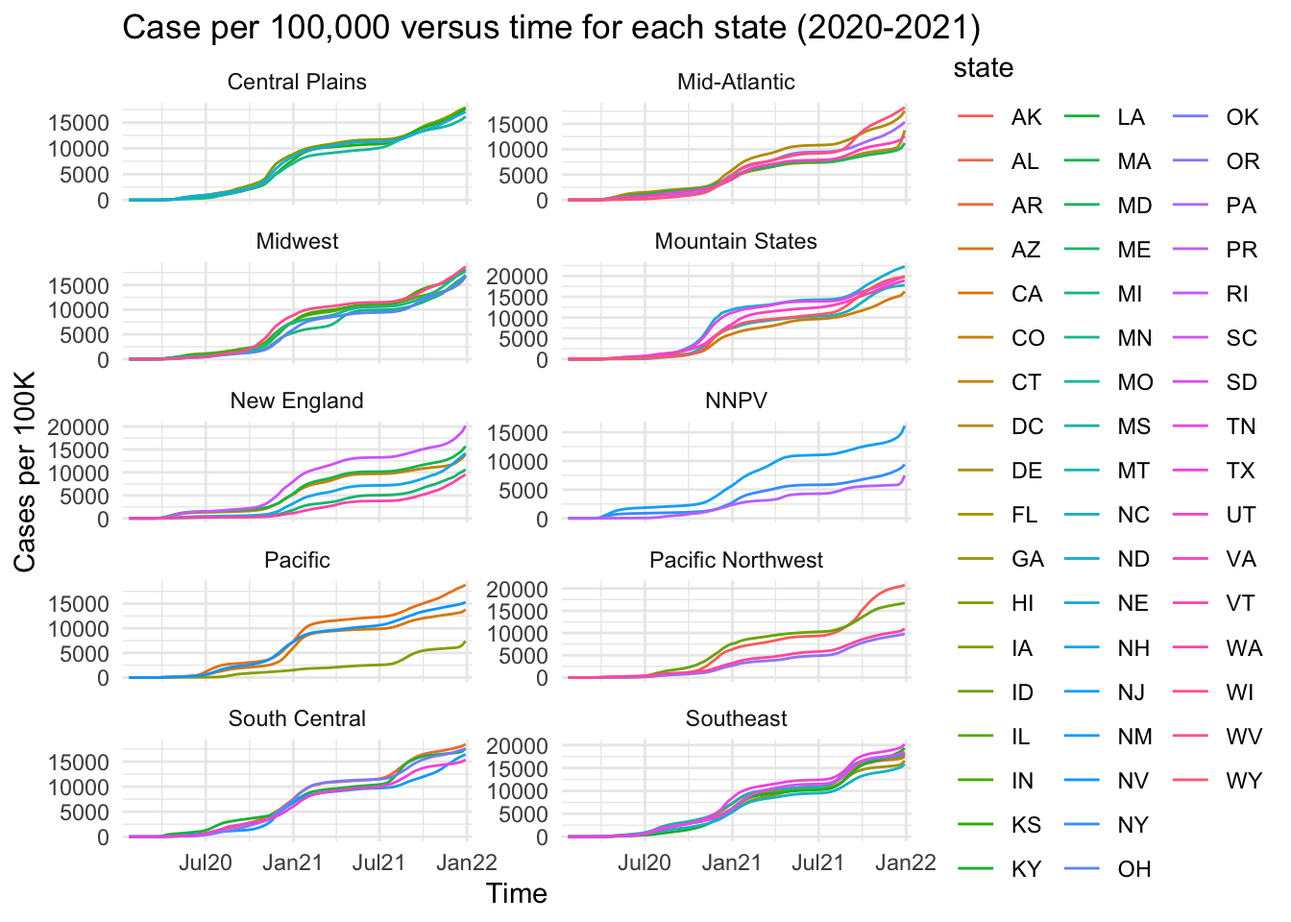
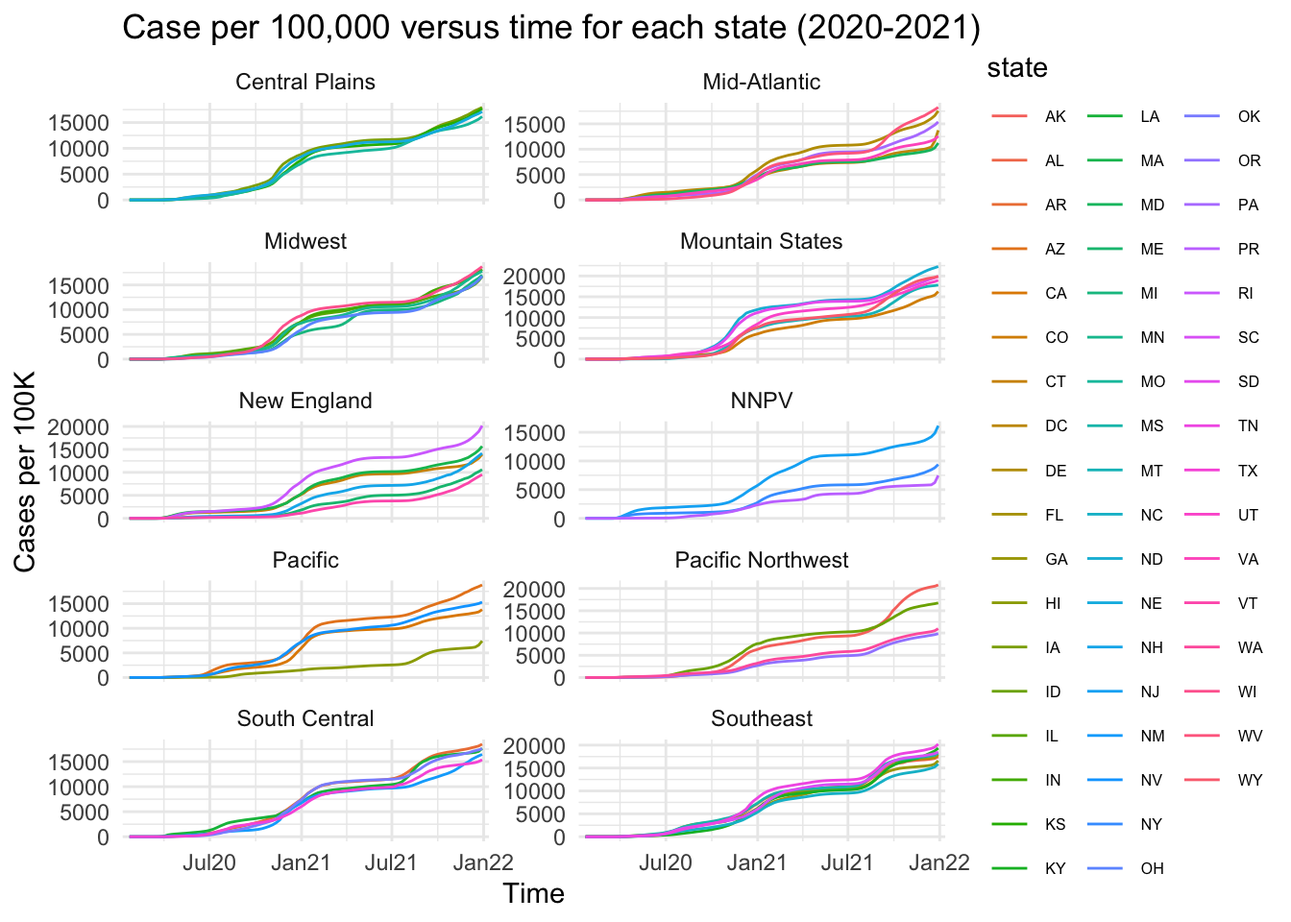
latest revision and debugging of urlreq

diff --git a/pset-04-wrangling.html b/pset-04-wrangling.html
@@ -158,8 +158,10 @@ window.Quarto = {
 <p>Create an object called <code>request</code> of class <code>httr2_request</code> with this URL as an endpoint. Hint: Print out <code>request</code> to check that the URL matches what we want.</p>
 <div class="cell">
 <div class="code-copy-outer-scaffold"><div class="sourceCode cell-code" id="cb5"><pre class="sourceCode r code-with-copy"><code class="sourceCode r"><span id="cb5-1"><a href="#cb5-1" aria-hidden="true" tabindex="-1"></a><span class="fu">library</span>(httr2)</span>
-<span id="cb5-2"><a href="#cb5-2" aria-hidden="true" tabindex="-1"></a>request_url <span class="ot">=</span> <span class="fu">paste</span>(<span class="st">"https://api.census.gov/data/2021/pep/population?get=POP_2020,POP_2021,NAME&amp;for=state:*&amp;key="</span>, census_key, <span class="at">sep =</span> <span class="st">""</span>)</span>
-<span id="cb5-3"><a href="#cb5-3" aria-hidden="true" tabindex="-1"></a>request <span class="ot">&lt;-</span> <span class="fu">request</span>(request_url) </span></code></pre></div><button title="Copy to Clipboard" class="code-copy-button"><i class="bi"></i></button></div>
+<span id="cb5-2"><a href="#cb5-2" aria-hidden="true" tabindex="-1"></a>request <span class="ot">&lt;-</span> <span class="fu">request</span>(url) <span class="sc">|&gt;</span> </span>
+<span id="cb5-3"><a href="#cb5-3" aria-hidden="true" tabindex="-1"></a>  <span class="fu">req_url_query</span>(<span class="at">get =</span> <span class="st">"POP_2020,POP_2021,NAME"</span>,</span>
+<span id="cb5-4"><a href="#cb5-4" aria-hidden="true" tabindex="-1"></a>                <span class="st">`</span><span class="at">for</span><span class="st">`</span><span class="ot">=</span><span class="st">"state:*"</span>, </span>
+<span id="cb5-5"><a href="#cb5-5" aria-hidden="true" tabindex="-1"></a>                <span class="at">key =</span> census_key)</span></code></pre></div><button title="Copy to Clipboard" class="code-copy-button"><i class="bi"></i></button></div>
 </div>
 <ol start="3" type="1">
 <li>Make a request to the US Census API using the <code>request</code> object. Save the response to and object named <code>response</code>. Check the response status of your request and make sure it was successful. You can learn about <em>status codes</em> <a href="https://en.wikipedia.org/wiki/List_of_HTTP_status_codes">here</a>.</li>
@@ -233,8 +235,8 @@ window.Quarto = {
 <span id="cb11-6"><a href="#cb11-6" aria-hidden="true" tabindex="-1"></a>  <span class="fu">coord_flip</span>() <span class="sc">+</span></span>
 <span id="cb11-7"><a href="#cb11-7" aria-hidden="true" tabindex="-1"></a>  <span class="fu">facet_wrap</span>(<span class="sc">~</span>year) <span class="sc">+</span> </span>
 <span id="cb11-8"><a href="#cb11-8" aria-hidden="true" tabindex="-1"></a>  <span class="fu">labs</span>(</span>
-<span id="cb11-9"><a href="#cb11-9" aria-hidden="true" tabindex="-1"></a>    <span class="at">x =</span> <span class="st">"Population Size"</span>,</span>
-<span id="cb11-10"><a href="#cb11-10" aria-hidden="true" tabindex="-1"></a>    <span class="at">y =</span> <span class="st">"State Name"</span></span>
+<span id="cb11-9"><a href="#cb11-9" aria-hidden="true" tabindex="-1"></a>    <span class="at">x =</span> <span class="st">"State Name"</span>,</span>
+<span id="cb11-10"><a href="#cb11-10" aria-hidden="true" tabindex="-1"></a>    <span class="at">y =</span> <span class="st">"Population Size"</span></span>
 <span id="cb11-11"><a href="#cb11-11" aria-hidden="true" tabindex="-1"></a>  )</span></code></pre></div><button title="Copy to Clipboard" class="code-copy-button"><i class="bi"></i></button></div>
 <div class="cell-output-display">
 <div>
@@ -305,48 +307,51 @@ window.Quarto = {
 </ol>
 <div class="cell">
 <div class="code-copy-outer-scaffold"><div class="sourceCode cell-code" id="cb17"><pre class="sourceCode r code-with-copy"><code class="sourceCode r"><span id="cb17-1"><a href="#cb17-1" aria-hidden="true" tabindex="-1"></a>api <span class="ot">&lt;-</span> <span class="st">"https://data.cdc.gov/resource/pwn4-m3yp.json"</span></span>
-<span id="cb17-2"><a href="#cb17-2" aria-hidden="true" tabindex="-1"></a>cases <span class="ot">&lt;-</span> <span class="fu">request</span>(<span class="fu">paste0</span>(api, <span class="st">"?$limit=10000000000"</span>)) <span class="sc">|&gt;</span></span>
-<span id="cb17-3"><a href="#cb17-3" aria-hidden="true" tabindex="-1"></a>  <span class="fu">req_perform</span>() <span class="sc">|&gt;</span></span>
-<span id="cb17-4"><a href="#cb17-4" aria-hidden="true" tabindex="-1"></a>  <span class="fu">resp_body_string</span>() <span class="sc">|&gt;</span></span>
-<span id="cb17-5"><a href="#cb17-5" aria-hidden="true" tabindex="-1"></a>  <span class="fu">fromJSON</span>() <span class="sc">|&gt;</span> </span>
-<span id="cb17-6"><a href="#cb17-6" aria-hidden="true" tabindex="-1"></a>  <span class="fu">as_tibble</span>() <span class="sc">|&gt;</span></span>
-<span id="cb17-7"><a href="#cb17-7" aria-hidden="true" tabindex="-1"></a>  <span class="fu">mutate</span>(</span>
-<span id="cb17-8"><a href="#cb17-8" aria-hidden="true" tabindex="-1"></a>    <span class="at">date =</span> <span class="fu">as.Date</span>(end_date),</span>
-<span id="cb17-9"><a href="#cb17-9" aria-hidden="true" tabindex="-1"></a>    <span class="at">cases =</span> <span class="fu">as.numeric</span>(tot_cases)</span>
-<span id="cb17-10"><a href="#cb17-10" aria-hidden="true" tabindex="-1"></a>  ) <span class="sc">|&gt;</span> </span>
-<span id="cb17-11"><a href="#cb17-11" aria-hidden="true" tabindex="-1"></a>  <span class="fu">select</span>(state,date,cases) <span class="sc">|&gt;</span></span>
-<span id="cb17-12"><a href="#cb17-12" aria-hidden="true" tabindex="-1"></a>  <span class="fu">filter</span>(<span class="sc">!</span><span class="fu">is.na</span>(cases),<span class="sc">!</span><span class="fu">is.na</span>(state),<span class="sc">!</span><span class="fu">is.na</span>(date))</span></code></pre></div><button title="Copy to Clipboard" class="code-copy-button"><i class="bi"></i></button></div>
+<span id="cb17-2"><a href="#cb17-2" aria-hidden="true" tabindex="-1"></a>cases <span class="ot">&lt;-</span> <span class="fu">request</span>(api) <span class="sc">|&gt;</span></span>
+<span id="cb17-3"><a href="#cb17-3" aria-hidden="true" tabindex="-1"></a>  <span class="fu">req_url_query</span>(<span class="st">`</span><span class="at">$limit</span><span class="st">`</span> <span class="ot">=</span> <span class="dv">10000000000</span>) <span class="sc">|&gt;</span></span>
+<span id="cb17-4"><a href="#cb17-4" aria-hidden="true" tabindex="-1"></a>  <span class="fu">req_perform</span>() <span class="sc">|&gt;</span></span>
+<span id="cb17-5"><a href="#cb17-5" aria-hidden="true" tabindex="-1"></a>  <span class="fu">resp_body_string</span>() <span class="sc">|&gt;</span></span>
+<span id="cb17-6"><a href="#cb17-6" aria-hidden="true" tabindex="-1"></a>  <span class="fu">fromJSON</span>() <span class="sc">|&gt;</span> </span>
+<span id="cb17-7"><a href="#cb17-7" aria-hidden="true" tabindex="-1"></a>  <span class="fu">as_tibble</span>() <span class="sc">|&gt;</span></span>
+<span id="cb17-8"><a href="#cb17-8" aria-hidden="true" tabindex="-1"></a>  <span class="fu">mutate</span>(</span>
+<span id="cb17-9"><a href="#cb17-9" aria-hidden="true" tabindex="-1"></a>    <span class="at">date =</span> <span class="fu">as.Date</span>(end_date),</span>
+<span id="cb17-10"><a href="#cb17-10" aria-hidden="true" tabindex="-1"></a>    <span class="at">cases =</span> <span class="fu">as.numeric</span>(tot_cases)</span>
+<span id="cb17-11"><a href="#cb17-11" aria-hidden="true" tabindex="-1"></a>  ) <span class="sc">|&gt;</span> </span>
+<span id="cb17-12"><a href="#cb17-12" aria-hidden="true" tabindex="-1"></a>  <span class="fu">select</span>(state,date,cases) <span class="sc">|&gt;</span> </span>
+<span id="cb17-13"><a href="#cb17-13" aria-hidden="true" tabindex="-1"></a>  <span class="fu">filter</span>(<span class="sc">!</span><span class="fu">is.na</span>(cases),<span class="sc">!</span><span class="fu">is.na</span>(state),<span class="sc">!</span><span class="fu">is.na</span>(date))</span></code></pre></div><button title="Copy to Clipboard" class="code-copy-button"><i class="bi"></i></button></div>
 </div>
 <ol start="12" type="1">
 <li>For 2020 and 2021, make a time series plot of cases per 100,000 versus time for each state. Stratify the plot by region name. Make sure to label you graph appropriately.</li>
 </ol>
 <div class="cell">
-<div class="code-copy-outer-scaffold"><div class="sourceCode cell-code" id="cb18"><pre class="sourceCode r code-with-copy"><code class="sourceCode r"><span id="cb18-1"><a href="#cb18-1" aria-hidden="true" tabindex="-1"></a><span class="co"># "NYC" "AS"  "FSM" "GU"  "MP"  "PW"  "RMI" "VI" are not found in population dataset</span></span>
-<span id="cb18-2"><a href="#cb18-2" aria-hidden="true" tabindex="-1"></a></span>
-<span id="cb18-3"><a href="#cb18-3" aria-hidden="true" tabindex="-1"></a>cases <span class="sc">|&gt;</span> </span>
-<span id="cb18-4"><a href="#cb18-4" aria-hidden="true" tabindex="-1"></a>  <span class="fu">filter</span>(<span class="fu">year</span>(date) <span class="sc">==</span> <span class="dv">2020</span> <span class="sc">|</span> <span class="fu">year</span>(date) <span class="sc">==</span> <span class="dv">2021</span>) <span class="sc">|&gt;</span></span>
-<span id="cb18-5"><a href="#cb18-5" aria-hidden="true" tabindex="-1"></a>  <span class="fu">filter</span>(<span class="sc">!</span>(state <span class="sc">%in%</span> <span class="fu">c</span>(<span class="st">"NYC"</span>,<span class="st">"AS"</span>,<span class="st">"FSM"</span>,<span class="st">"GU"</span>,<span class="st">"MP"</span>,<span class="st">"PW"</span>,<span class="st">"RMI"</span>,<span class="st">"VI"</span> ))) <span class="sc">|&gt;</span> </span>
-<span id="cb18-6"><a href="#cb18-6" aria-hidden="true" tabindex="-1"></a>  <span class="fu">mutate</span>(<span class="at">year =</span> <span class="fu">year</span>(date)) <span class="sc">|&gt;</span> </span>
-<span id="cb18-7"><a href="#cb18-7" aria-hidden="true" tabindex="-1"></a>  <span class="fu">left_join</span>(population, <span class="at">by =</span> <span class="fu">c</span>(<span class="st">"state"</span>,<span class="st">"year"</span>)) <span class="sc">|&gt;</span></span>
-<span id="cb18-8"><a href="#cb18-8" aria-hidden="true" tabindex="-1"></a>  <span class="fu">mutate</span>(<span class="at">cases_per_100k =</span> cases<span class="sc">/</span>pop_size <span class="sc">*</span> <span class="dv">100000</span>) <span class="sc">|&gt;</span></span>
-<span id="cb18-9"><a href="#cb18-9" aria-hidden="true" tabindex="-1"></a>  <span class="fu">ggplot</span>() <span class="sc">+</span> </span>
-<span id="cb18-10"><a href="#cb18-10" aria-hidden="true" tabindex="-1"></a>  <span class="fu">geom_line</span>(<span class="fu">aes</span>(</span>
-<span id="cb18-11"><a href="#cb18-11" aria-hidden="true" tabindex="-1"></a>    <span class="at">x =</span> date,</span>
-<span id="cb18-12"><a href="#cb18-12" aria-hidden="true" tabindex="-1"></a>    <span class="at">y =</span> cases_per_100k,</span>
-<span id="cb18-13"><a href="#cb18-13" aria-hidden="true" tabindex="-1"></a>    <span class="at">color =</span> state,</span>
-<span id="cb18-14"><a href="#cb18-14" aria-hidden="true" tabindex="-1"></a>    <span class="at">group =</span> state</span>
-<span id="cb18-15"><a href="#cb18-15" aria-hidden="true" tabindex="-1"></a>  )) <span class="sc">+</span></span>
-<span id="cb18-16"><a href="#cb18-16" aria-hidden="true" tabindex="-1"></a>  <span class="fu">scale_x_date</span>(</span>
-<span id="cb18-17"><a href="#cb18-17" aria-hidden="true" tabindex="-1"></a>  <span class="at">date_breaks =</span> <span class="st">"6 months"</span>,  </span>
-<span id="cb18-18"><a href="#cb18-18" aria-hidden="true" tabindex="-1"></a>  <span class="at">date_labels =</span> <span class="st">"%b%y"</span>,        </span>
-<span id="cb18-19"><a href="#cb18-19" aria-hidden="true" tabindex="-1"></a>  <span class="at">expand =</span> <span class="fu">c</span>(<span class="fl">0.02</span>, <span class="dv">0</span>)</span>
-<span id="cb18-20"><a href="#cb18-20" aria-hidden="true" tabindex="-1"></a>  ) <span class="sc">+</span> </span>
-<span id="cb18-21"><a href="#cb18-21" aria-hidden="true" tabindex="-1"></a>  <span class="fu">facet_wrap</span>(<span class="sc">~</span>region_name, <span class="at">scales =</span> <span class="st">"free_y"</span>, <span class="at">ncol =</span> <span class="dv">2</span>) <span class="sc">+</span> </span>
-<span id="cb18-22"><a href="#cb18-22" aria-hidden="true" tabindex="-1"></a>  <span class="fu">labs</span>(</span>
-<span id="cb18-23"><a href="#cb18-23" aria-hidden="true" tabindex="-1"></a>    <span class="at">x =</span> <span class="st">"Time"</span>,</span>
-<span id="cb18-24"><a href="#cb18-24" aria-hidden="true" tabindex="-1"></a>    <span class="at">y =</span> <span class="st">"Cases per 100K"</span>,</span>
-<span id="cb18-25"><a href="#cb18-25" aria-hidden="true" tabindex="-1"></a>    <span class="at">title =</span> <span class="st">"Case per 100,000 versus time for each state (2020-2021)"</span></span>
-<span id="cb18-26"><a href="#cb18-26" aria-hidden="true" tabindex="-1"></a>  ) <span class="sc">+</span> <span class="fu">theme_minimal</span>() </span></code></pre></div><button title="Copy to Clipboard" class="code-copy-button"><i class="bi"></i></button></div>
+<div class="code-copy-outer-scaffold"><div class="sourceCode cell-code" id="cb18"><pre class="sourceCode r code-with-copy"><code class="sourceCode r"><span id="cb18-1"><a href="#cb18-1" aria-hidden="true" tabindex="-1"></a><span class="fu">library</span>(lubridate)</span>
+<span id="cb18-2"><a href="#cb18-2" aria-hidden="true" tabindex="-1"></a><span class="co"># "NYC" "AS"  "FSM" "GU"  "MP"  "PW"  "RMI" "VI" are not found in population dataset</span></span>
+<span id="cb18-3"><a href="#cb18-3" aria-hidden="true" tabindex="-1"></a></span>
+<span id="cb18-4"><a href="#cb18-4" aria-hidden="true" tabindex="-1"></a>cases <span class="sc">|&gt;</span> </span>
+<span id="cb18-5"><a href="#cb18-5" aria-hidden="true" tabindex="-1"></a>  <span class="fu">filter</span>(<span class="fu">year</span>(date) <span class="sc">==</span> <span class="dv">2020</span> <span class="sc">|</span> <span class="fu">year</span>(date) <span class="sc">==</span> <span class="dv">2021</span>) <span class="sc">|&gt;</span></span>
+<span id="cb18-6"><a href="#cb18-6" aria-hidden="true" tabindex="-1"></a>  <span class="fu">filter</span>(<span class="sc">!</span>(state <span class="sc">%in%</span> <span class="fu">c</span>(<span class="st">"NYC"</span>,<span class="st">"AS"</span>,<span class="st">"FSM"</span>,<span class="st">"GU"</span>,<span class="st">"MP"</span>,<span class="st">"PW"</span>,<span class="st">"RMI"</span>,<span class="st">"VI"</span> ))) <span class="sc">|&gt;</span> </span>
+<span id="cb18-7"><a href="#cb18-7" aria-hidden="true" tabindex="-1"></a>  <span class="fu">mutate</span>(<span class="at">year =</span> <span class="fu">year</span>(date)) <span class="sc">|&gt;</span> </span>
+<span id="cb18-8"><a href="#cb18-8" aria-hidden="true" tabindex="-1"></a>  <span class="fu">left_join</span>(population, <span class="at">by =</span> <span class="fu">c</span>(<span class="st">"state"</span>,<span class="st">"year"</span>)) <span class="sc">|&gt;</span></span>
+<span id="cb18-9"><a href="#cb18-9" aria-hidden="true" tabindex="-1"></a>  <span class="fu">mutate</span>(<span class="at">cases_per_100k =</span> cases<span class="sc">/</span>pop_size <span class="sc">*</span> <span class="dv">100000</span>) <span class="sc">|&gt;</span></span>
+<span id="cb18-10"><a href="#cb18-10" aria-hidden="true" tabindex="-1"></a>  <span class="fu">ggplot</span>() <span class="sc">+</span> </span>
+<span id="cb18-11"><a href="#cb18-11" aria-hidden="true" tabindex="-1"></a>  <span class="fu">geom_line</span>(<span class="fu">aes</span>(</span>
+<span id="cb18-12"><a href="#cb18-12" aria-hidden="true" tabindex="-1"></a>    <span class="at">x =</span> date,</span>
+<span id="cb18-13"><a href="#cb18-13" aria-hidden="true" tabindex="-1"></a>    <span class="at">y =</span> cases_per_100k,</span>
+<span id="cb18-14"><a href="#cb18-14" aria-hidden="true" tabindex="-1"></a>    <span class="at">color =</span> state,</span>
+<span id="cb18-15"><a href="#cb18-15" aria-hidden="true" tabindex="-1"></a>    <span class="at">group =</span> state</span>
+<span id="cb18-16"><a href="#cb18-16" aria-hidden="true" tabindex="-1"></a>  )) <span class="sc">+</span></span>
+<span id="cb18-17"><a href="#cb18-17" aria-hidden="true" tabindex="-1"></a>  <span class="fu">scale_x_date</span>(</span>
+<span id="cb18-18"><a href="#cb18-18" aria-hidden="true" tabindex="-1"></a>  <span class="at">date_breaks =</span> <span class="st">"6 months"</span>,  </span>
+<span id="cb18-19"><a href="#cb18-19" aria-hidden="true" tabindex="-1"></a>  <span class="at">date_labels =</span> <span class="st">"%b%y"</span>,        </span>
+<span id="cb18-20"><a href="#cb18-20" aria-hidden="true" tabindex="-1"></a>  <span class="at">expand =</span> <span class="fu">c</span>(<span class="fl">0.02</span>, <span class="dv">0</span>)</span>
+<span id="cb18-21"><a href="#cb18-21" aria-hidden="true" tabindex="-1"></a>  ) <span class="sc">+</span> </span>
+<span id="cb18-22"><a href="#cb18-22" aria-hidden="true" tabindex="-1"></a>  <span class="fu">facet_wrap</span>(<span class="sc">~</span>region_name, <span class="at">scales =</span> <span class="st">"free_y"</span>, <span class="at">ncol =</span> <span class="dv">2</span>) <span class="sc">+</span> </span>
+<span id="cb18-23"><a href="#cb18-23" aria-hidden="true" tabindex="-1"></a>  <span class="fu">labs</span>(</span>
+<span id="cb18-24"><a href="#cb18-24" aria-hidden="true" tabindex="-1"></a>    <span class="at">x =</span> <span class="st">"Time"</span>,</span>
+<span id="cb18-25"><a href="#cb18-25" aria-hidden="true" tabindex="-1"></a>    <span class="at">y =</span> <span class="st">"Cases per 100K"</span>,</span>
+<span id="cb18-26"><a href="#cb18-26" aria-hidden="true" tabindex="-1"></a>    <span class="at">title =</span> <span class="st">"Case per 100,000 versus time for each state (2020-2021)"</span></span>
+<span id="cb18-27"><a href="#cb18-27" aria-hidden="true" tabindex="-1"></a>  ) <span class="sc">+</span> <span class="fu">theme_minimal</span>() <span class="sc">+</span></span>
+<span id="cb18-28"><a href="#cb18-28" aria-hidden="true" tabindex="-1"></a>  <span class="fu">theme</span>(<span class="at">legend.text =</span> <span class="fu">element_text</span>(<span class="at">size =</span> <span class="dv">6</span>))</span></code></pre></div><button title="Copy to Clipboard" class="code-copy-button"><i class="bi"></i></button></div>
 <div class="cell-output-display">
 <div>
 <figure class="figure">
@@ -360,17 +365,16 @@ window.Quarto = {
 </ol>
 <div class="cell">
 <div class="code-copy-outer-scaffold"><div class="sourceCode cell-code" id="cb19"><pre class="sourceCode r code-with-copy"><code class="sourceCode r"><span id="cb19-1"><a href="#cb19-1" aria-hidden="true" tabindex="-1"></a><span class="fu">library</span>(knitr)</span>
-<span id="cb19-2"><a href="#cb19-2" aria-hidden="true" tabindex="-1"></a><span class="fu">library</span>(lubridate)</span>
-<span id="cb19-3"><a href="#cb19-3" aria-hidden="true" tabindex="-1"></a>cases <span class="sc">|&gt;</span> </span>
-<span id="cb19-4"><a href="#cb19-4" aria-hidden="true" tabindex="-1"></a>  <span class="fu">mutate</span>(<span class="at">date =</span> <span class="fu">ymd</span>(date)) <span class="sc">|&gt;</span> </span>
-<span id="cb19-5"><a href="#cb19-5" aria-hidden="true" tabindex="-1"></a>  <span class="fu">mutate</span>(</span>
-<span id="cb19-6"><a href="#cb19-6" aria-hidden="true" tabindex="-1"></a>    <span class="at">year =</span> <span class="fu">year</span>(date),</span>
-<span id="cb19-7"><a href="#cb19-7" aria-hidden="true" tabindex="-1"></a>    <span class="at">month =</span> <span class="fu">month</span>(date, <span class="at">label =</span> <span class="cn">TRUE</span>),</span>
-<span id="cb19-8"><a href="#cb19-8" aria-hidden="true" tabindex="-1"></a>    <span class="at">day =</span> <span class="fu">day</span>(date)) <span class="sc">|&gt;</span> </span>
-<span id="cb19-9"><a href="#cb19-9" aria-hidden="true" tabindex="-1"></a>  <span class="fu">filter</span>(year <span class="sc">==</span> <span class="dv">2020</span> <span class="sc">|</span> year <span class="sc">==</span> <span class="dv">2021</span> ) <span class="sc">|&gt;</span></span>
-<span id="cb19-10"><a href="#cb19-10" aria-hidden="true" tabindex="-1"></a>  <span class="fu">group_by</span>(year,month) <span class="sc">|&gt;</span></span>
-<span id="cb19-11"><a href="#cb19-11" aria-hidden="true" tabindex="-1"></a>  <span class="fu">summarize</span>(<span class="at">total_COVID19_cases =</span> <span class="fu">sum</span>(cases)) <span class="sc">|&gt;</span></span>
-<span id="cb19-12"><a href="#cb19-12" aria-hidden="true" tabindex="-1"></a>  <span class="fu">kable</span>(<span class="at">digits =</span> <span class="dv">2</span>)</span></code></pre></div><button title="Copy to Clipboard" class="code-copy-button"><i class="bi"></i></button></div>
+<span id="cb19-2"><a href="#cb19-2" aria-hidden="true" tabindex="-1"></a>cases <span class="sc">|&gt;</span> </span>
+<span id="cb19-3"><a href="#cb19-3" aria-hidden="true" tabindex="-1"></a>  <span class="fu">mutate</span>(<span class="at">date =</span> <span class="fu">ymd</span>(date)) <span class="sc">|&gt;</span> </span>
+<span id="cb19-4"><a href="#cb19-4" aria-hidden="true" tabindex="-1"></a>  <span class="fu">mutate</span>(</span>
+<span id="cb19-5"><a href="#cb19-5" aria-hidden="true" tabindex="-1"></a>    <span class="at">year =</span> <span class="fu">year</span>(date),</span>
+<span id="cb19-6"><a href="#cb19-6" aria-hidden="true" tabindex="-1"></a>    <span class="at">month =</span> <span class="fu">month</span>(date, <span class="at">label =</span> <span class="cn">TRUE</span>),</span>
+<span id="cb19-7"><a href="#cb19-7" aria-hidden="true" tabindex="-1"></a>    <span class="at">day =</span> <span class="fu">day</span>(date)) <span class="sc">|&gt;</span> </span>
+<span id="cb19-8"><a href="#cb19-8" aria-hidden="true" tabindex="-1"></a>  <span class="fu">filter</span>(year <span class="sc">==</span> <span class="dv">2020</span> <span class="sc">|</span> year <span class="sc">==</span> <span class="dv">2021</span> ) <span class="sc">|&gt;</span></span>
+<span id="cb19-9"><a href="#cb19-9" aria-hidden="true" tabindex="-1"></a>  <span class="fu">group_by</span>(year,month) <span class="sc">|&gt;</span></span>
+<span id="cb19-10"><a href="#cb19-10" aria-hidden="true" tabindex="-1"></a>  <span class="fu">summarize</span>(<span class="at">total_COVID19_cases =</span> <span class="fu">sum</span>(cases)) <span class="sc">|&gt;</span></span>
+<span id="cb19-11"><a href="#cb19-11" aria-hidden="true" tabindex="-1"></a>  <span class="fu">kable</span>(<span class="at">digits =</span> <span class="dv">2</span>)</span></code></pre></div><button title="Copy to Clipboard" class="code-copy-button"><i class="bi"></i></button></div>
 <div class="cell-output cell-output-stderr">
 <pre><code>`summarise()` has grouped output by 'year'. You can override using the
 `.groups` argument.</code></pre>
@@ -518,16 +522,17 @@ window.Quarto = {
 <p>Use <strong>httr2</strong> to download COVID-19 death data from this endpoint. Make sure to remove the default limit to get all available data. Create a clean dataset called <code>deaths</code> with columns <code>state</code>, <code>date</code>, and <code>deaths</code> (renamed from the original column name). Ensure dates are in proper Date format and deaths are numeric.</p>
 <div class="cell">
 <div class="code-copy-outer-scaffold"><div class="sourceCode cell-code" id="cb22"><pre class="sourceCode r code-with-copy"><code class="sourceCode r"><span id="cb22-1"><a href="#cb22-1" aria-hidden="true" tabindex="-1"></a><span class="co"># Your code here</span></span>
-<span id="cb22-2"><a href="#cb22-2" aria-hidden="true" tabindex="-1"></a>deaths <span class="ot">=</span> <span class="fu">request</span>(<span class="fu">paste0</span>(deaths_url, <span class="st">"?$limit=100000000"</span>)) <span class="sc">|&gt;</span></span>
-<span id="cb22-3"><a href="#cb22-3" aria-hidden="true" tabindex="-1"></a>  <span class="fu">req_perform</span>() <span class="sc">|&gt;</span> </span>
-<span id="cb22-4"><a href="#cb22-4" aria-hidden="true" tabindex="-1"></a>  <span class="fu">resp_body_string</span>() <span class="sc">|&gt;</span> </span>
-<span id="cb22-5"><a href="#cb22-5" aria-hidden="true" tabindex="-1"></a>  <span class="fu">fromJSON</span>() <span class="sc">|&gt;</span></span>
-<span id="cb22-6"><a href="#cb22-6" aria-hidden="true" tabindex="-1"></a>  <span class="fu">as_tibble</span>() <span class="sc">|&gt;</span></span>
-<span id="cb22-7"><a href="#cb22-7" aria-hidden="true" tabindex="-1"></a>  <span class="fu">select</span>(state, <span class="at">date =</span> end_date, <span class="at">deaths =</span> covid_19_deaths) <span class="sc">|&gt;</span></span>
-<span id="cb22-8"><a href="#cb22-8" aria-hidden="true" tabindex="-1"></a>  <span class="fu">mutate</span>(<span class="at">date =</span> <span class="fu">as.Date</span>(date),</span>
-<span id="cb22-9"><a href="#cb22-9" aria-hidden="true" tabindex="-1"></a>         <span class="at">deaths =</span> <span class="fu">as.numeric</span>(deaths)) <span class="sc">|&gt;</span></span>
-<span id="cb22-10"><a href="#cb22-10" aria-hidden="true" tabindex="-1"></a>  <span class="fu">filter</span>(<span class="sc">!</span>(state <span class="sc">==</span> <span class="st">"United States"</span>),</span>
-<span id="cb22-11"><a href="#cb22-11" aria-hidden="true" tabindex="-1"></a>         <span class="sc">!</span>(<span class="fu">is.na</span>(deaths)))</span></code></pre></div><button title="Copy to Clipboard" class="code-copy-button"><i class="bi"></i></button></div>
+<span id="cb22-2"><a href="#cb22-2" aria-hidden="true" tabindex="-1"></a>deaths <span class="ot">=</span> <span class="fu">request</span>(deaths_url) <span class="sc">|&gt;</span></span>
+<span id="cb22-3"><a href="#cb22-3" aria-hidden="true" tabindex="-1"></a>  <span class="fu">req_url_query</span>(<span class="st">`</span><span class="at">$limit</span><span class="st">`</span> <span class="ot">=</span> <span class="dv">10000000000</span>) <span class="sc">|&gt;</span></span>
+<span id="cb22-4"><a href="#cb22-4" aria-hidden="true" tabindex="-1"></a>  <span class="fu">req_perform</span>() <span class="sc">|&gt;</span> </span>
+<span id="cb22-5"><a href="#cb22-5" aria-hidden="true" tabindex="-1"></a>  <span class="fu">resp_body_string</span>() <span class="sc">|&gt;</span> </span>
+<span id="cb22-6"><a href="#cb22-6" aria-hidden="true" tabindex="-1"></a>  <span class="fu">fromJSON</span>() <span class="sc">|&gt;</span></span>
+<span id="cb22-7"><a href="#cb22-7" aria-hidden="true" tabindex="-1"></a>  <span class="fu">as_tibble</span>() <span class="sc">|&gt;</span></span>
+<span id="cb22-8"><a href="#cb22-8" aria-hidden="true" tabindex="-1"></a>  <span class="fu">select</span>(state, <span class="at">date =</span> end_date, <span class="at">deaths =</span> covid_19_deaths) <span class="sc">|&gt;</span></span>
+<span id="cb22-9"><a href="#cb22-9" aria-hidden="true" tabindex="-1"></a>  <span class="fu">mutate</span>(<span class="at">date =</span> <span class="fu">as.Date</span>(date),</span>
+<span id="cb22-10"><a href="#cb22-10" aria-hidden="true" tabindex="-1"></a>         <span class="at">deaths =</span> <span class="fu">as.numeric</span>(deaths)) <span class="sc">|&gt;</span></span>
+<span id="cb22-11"><a href="#cb22-11" aria-hidden="true" tabindex="-1"></a>  <span class="fu">filter</span>(<span class="sc">!</span>(state <span class="sc">==</span> <span class="st">"United States"</span>),</span>
+<span id="cb22-12"><a href="#cb22-12" aria-hidden="true" tabindex="-1"></a>         <span class="sc">!</span>(<span class="fu">is.na</span>(deaths)))</span></code></pre></div><button title="Copy to Clipboard" class="code-copy-button"><i class="bi"></i></button></div>
 </div>
 <ol start="15" type="1">
 <li>Using the <code>deaths</code> dataset you created, make a bar plot showing the total COVID-19 deaths by state. Show only the top 10 states with the highest death counts. Order the bars from highest to lowest and use appropriate labels and title.</li>
@@ -550,7 +555,8 @@ window.Quarto = {
 <span id="cb23-15"><a href="#cb23-15" aria-hidden="true" tabindex="-1"></a>    <span class="at">y =</span> <span class="st">"Total COVID-19 Deaths"</span>,</span>
 <span id="cb23-16"><a href="#cb23-16" aria-hidden="true" tabindex="-1"></a>    <span class="at">title =</span> <span class="st">"Total COVID-19 Deaths by State"</span></span>
 <span id="cb23-17"><a href="#cb23-17" aria-hidden="true" tabindex="-1"></a>  ) <span class="sc">+</span> </span>
-<span id="cb23-18"><a href="#cb23-18" aria-hidden="true" tabindex="-1"></a>  <span class="fu">theme_classic</span>()</span></code></pre></div><button title="Copy to Clipboard" class="code-copy-button"><i class="bi"></i></button></div>
+<span id="cb23-18"><a href="#cb23-18" aria-hidden="true" tabindex="-1"></a>  <span class="fu">theme_classic</span>() <span class="sc">+</span></span>
+<span id="cb23-19"><a href="#cb23-19" aria-hidden="true" tabindex="-1"></a>  <span class="fu">theme</span>(<span class="at">axis.text.x =</span> <span class="fu">element_text</span>(<span class="at">size =</span> <span class="dv">6</span>))</span></code></pre></div><button title="Copy to Clipboard" class="code-copy-button"><i class="bi"></i></button></div>
 <div class="cell-output-display">
 <div>
 <figure class="figure">
